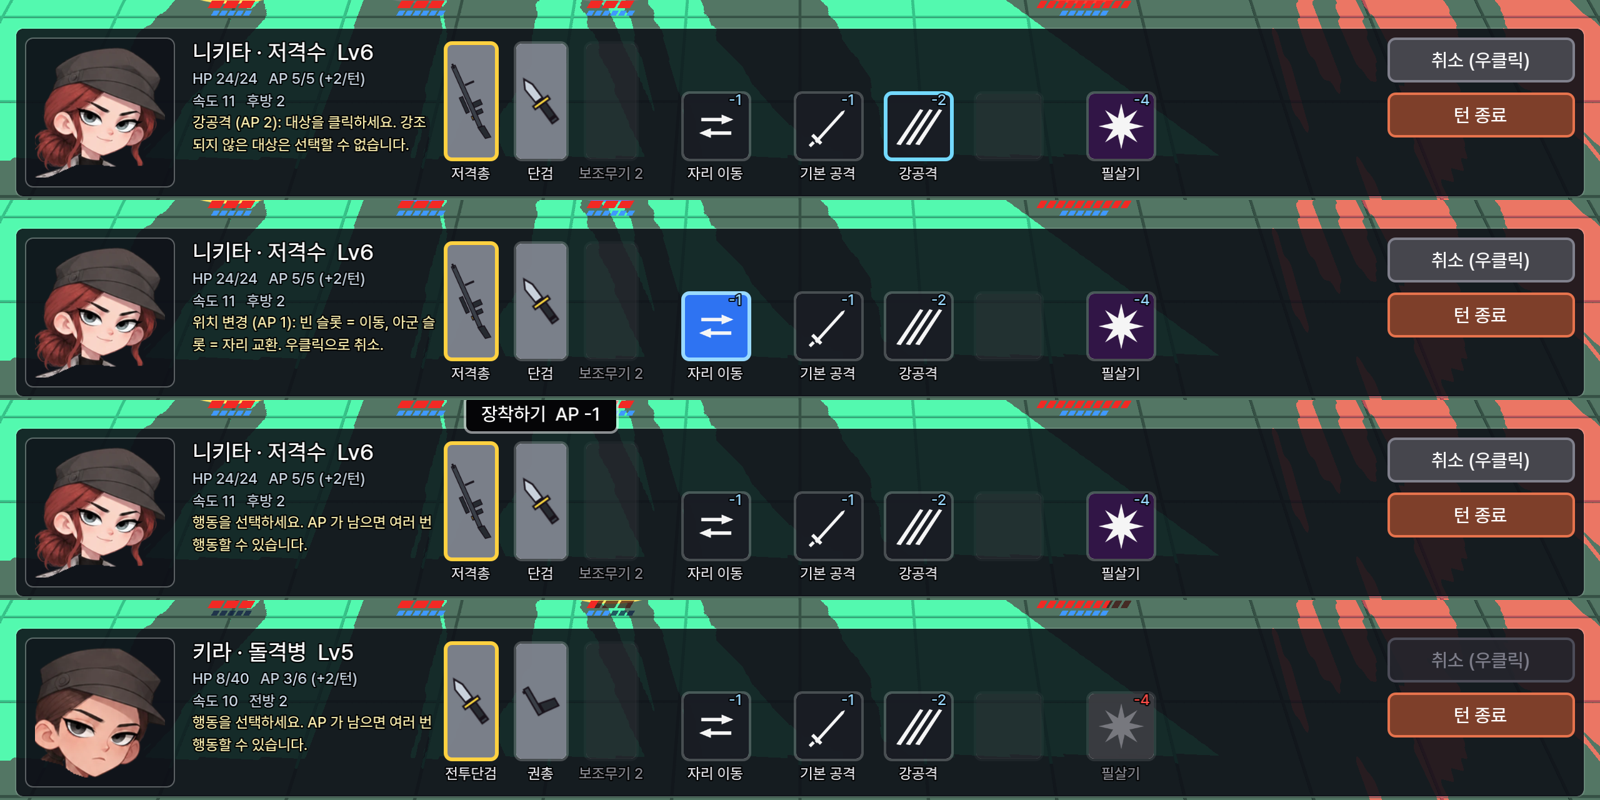
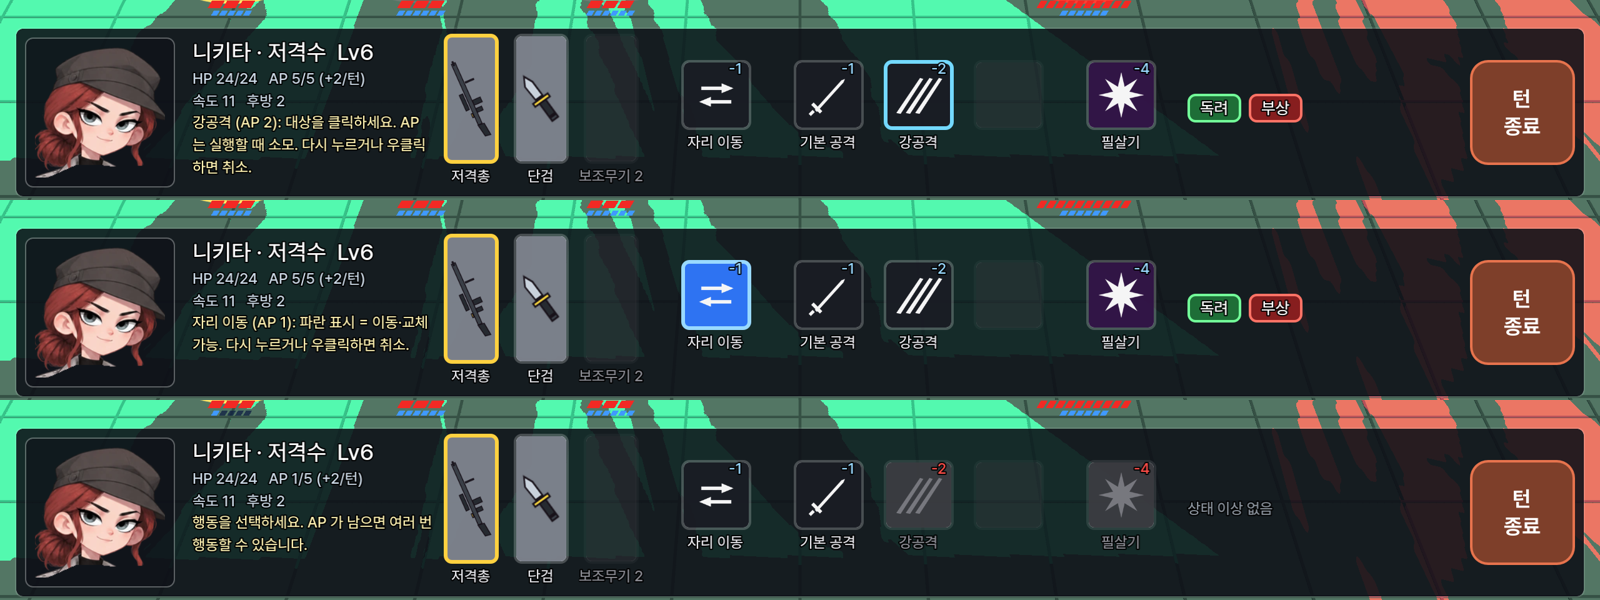
하단 HUD: 다시 누르면 취소(취소 버튼 제거), 둥근 정사각 턴 종료, 상태 이상 표시
- 같은 슬롯(무기·자리 이동·스킬·필살기)을 다시 누르면 취소, 우클릭도 취소. 취소 버튼 제거
- 턴 종료: 맨 오른쪽 모서리 둥근 정사각형
- 스킬·자리 이동·필살기를 패널 세로 가운데로
- 상태 이상: StatusCatalog(독려 = 긍정, 부상 = 부정·이동 불가), UnitRuntime.statuses.
  독려 받으면 '독려' 상태, 그 유닛의 턴이 끝나면 해제. HUD 슬롯 오른쪽에 칩(긍정 녹색/
  부정 붉은색, 호버 설명). 테스트 [13] (79개 통과)
- 안내 문구: AP 는 실행할 때 소모, 다시 누르거나 우클릭하면 취소

Claude-Session: https://claude.ai/code/session_014aytw3hj7boqn3SZ5GP5ti

diff --git a/docs/design/00_decision_log_v1_0.md b/docs/design/00_decision_log_v1_0.md
@@ -18,7 +18,11 @@
   **전투 기록은 2단**: 1단 = 우측 상단 아이콘만(글자 없음), 2단 = 아이콘 아래 기록 창(기존 크기). 아이콘 클릭 또는 L.
   동전 결과 글자는 HUD 에 표시하지 않음. 글꼴은 **Pretendard** (Regular/Medium/Bold, OFL).
 - 발밑 표시 (2026-10-26): 체력(붉은 평행사변형 칸) 바로 아래에 **AP 를 파란 평행사변형 칸**으로 (최대 AP 수만큼 칸, 현재 AP 만큼 참). 머리 위 AP 글자는 제거.
-- 하단 HUD (2026-10-26): 초상화 | 이름·수치·안내 | (슬롯 줄은 화면 가로 가운데) | 취소·턴 종료.
+- 하단 HUD (2026-10-26): 초상화 | 이름·수치·안내 | (슬롯 줄은 화면 가로 가운데) | 상태 이상 | 턴 종료.
+  - 버튼은 **같은 버튼을 다시 누르면 취소** (우클릭도 취소). 취소 버튼은 제거, 맨 오른쪽엔 모서리 둥근 정사각형 **턴 종료**만.
+  - AP 는 버튼을 누를 때가 아니라 **행동을 실행할 때** 소모 (대상 클릭·자리 클릭·장착하기).
+  - 스킬·자리 이동·필살기는 패널 세로 가운데. 상태 이상은 슬롯 오른쪽 빈 칸: 긍정 녹색 / 부정 붉은색, 호버 시 설명.
+    현재 상태 이상: 독려(긍정, 독려 받은 유닛의 다음 턴 끝까지), 부상(부정, 자리 이동·교체 불가 — 아직 거는 스킬 없음).
   - 사용할 수 없는 슬롯은 회색, 비용은 "-AP" (사용 불가 붉은색 / 가능 파란색).
   - 무기 3칸(주무기·보조무기1·보조무기2): 세로로 긴 칸(패널 천장까지, 무기 원화 90° 회전), 칸 사이 간격은 다른 슬롯의 절반. 클릭 → 그 위에 불투명 검은 버튼 "장착하기 AP -1". 장착 중인 무기는 노란 테두리, 클릭하면 "장착 중"(비활성).
   - 자리 이동: 클릭 → 버튼 바탕이 파란색, 가운데 화살표가 좌우로 살짝 흔들림. 이동·교체 가능한 자리 발밑에 파란 표시. 부상·상태이상(move_locked)·큰 몸집으로 옮길 수 없는 캐릭터 자리는 표시 안 함.
